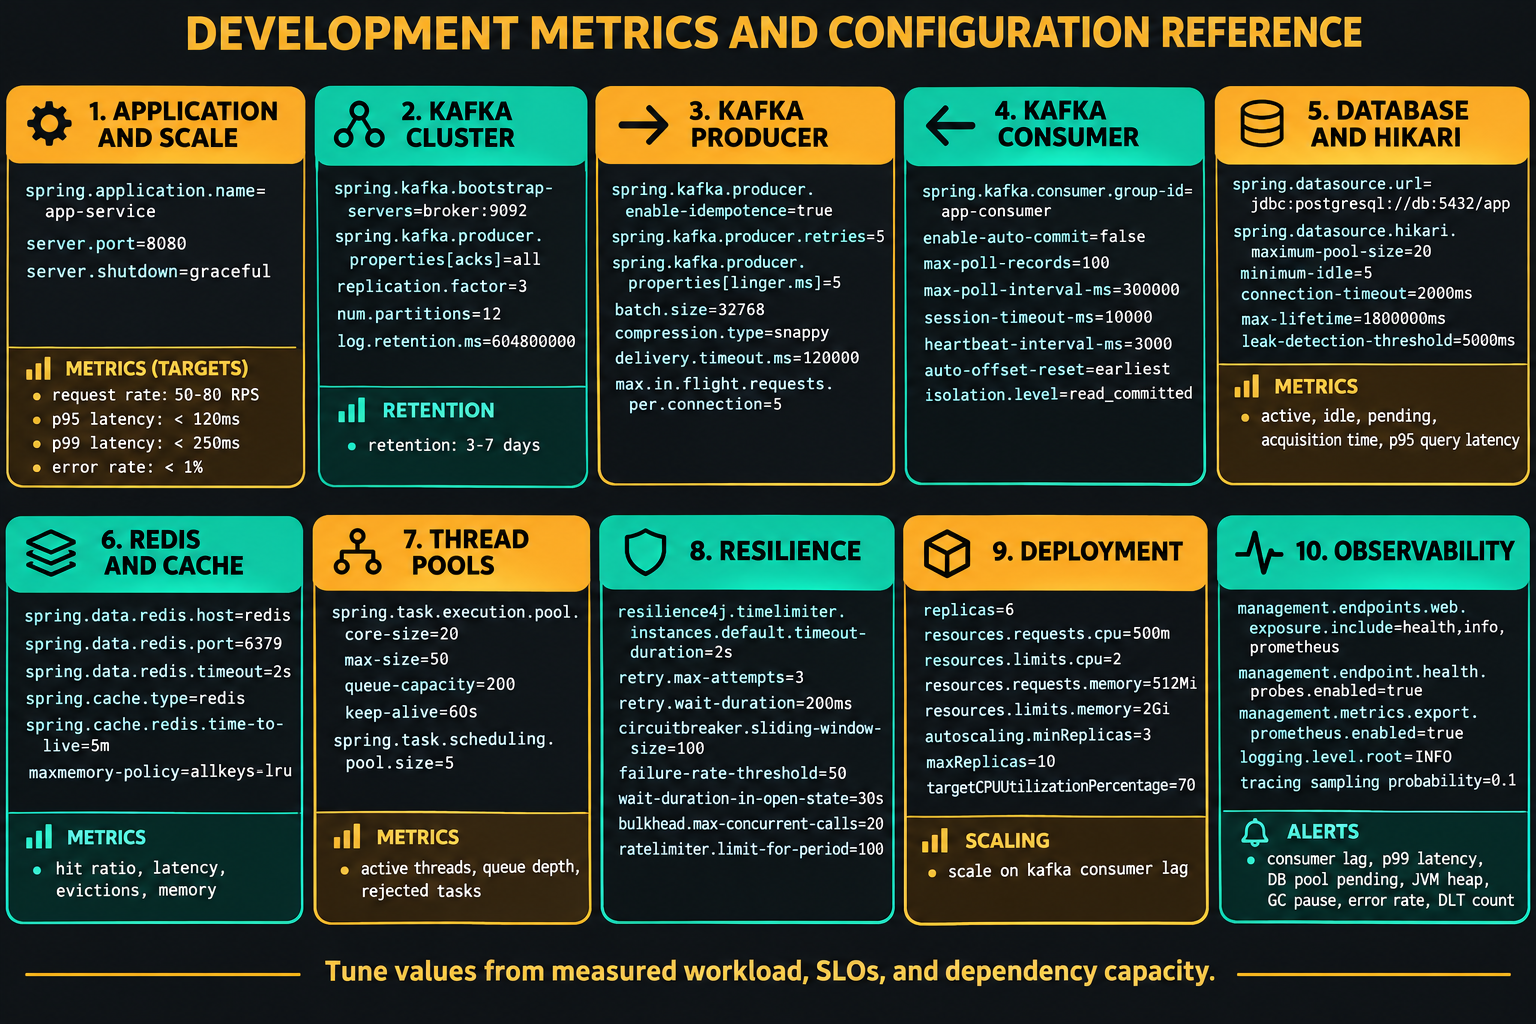
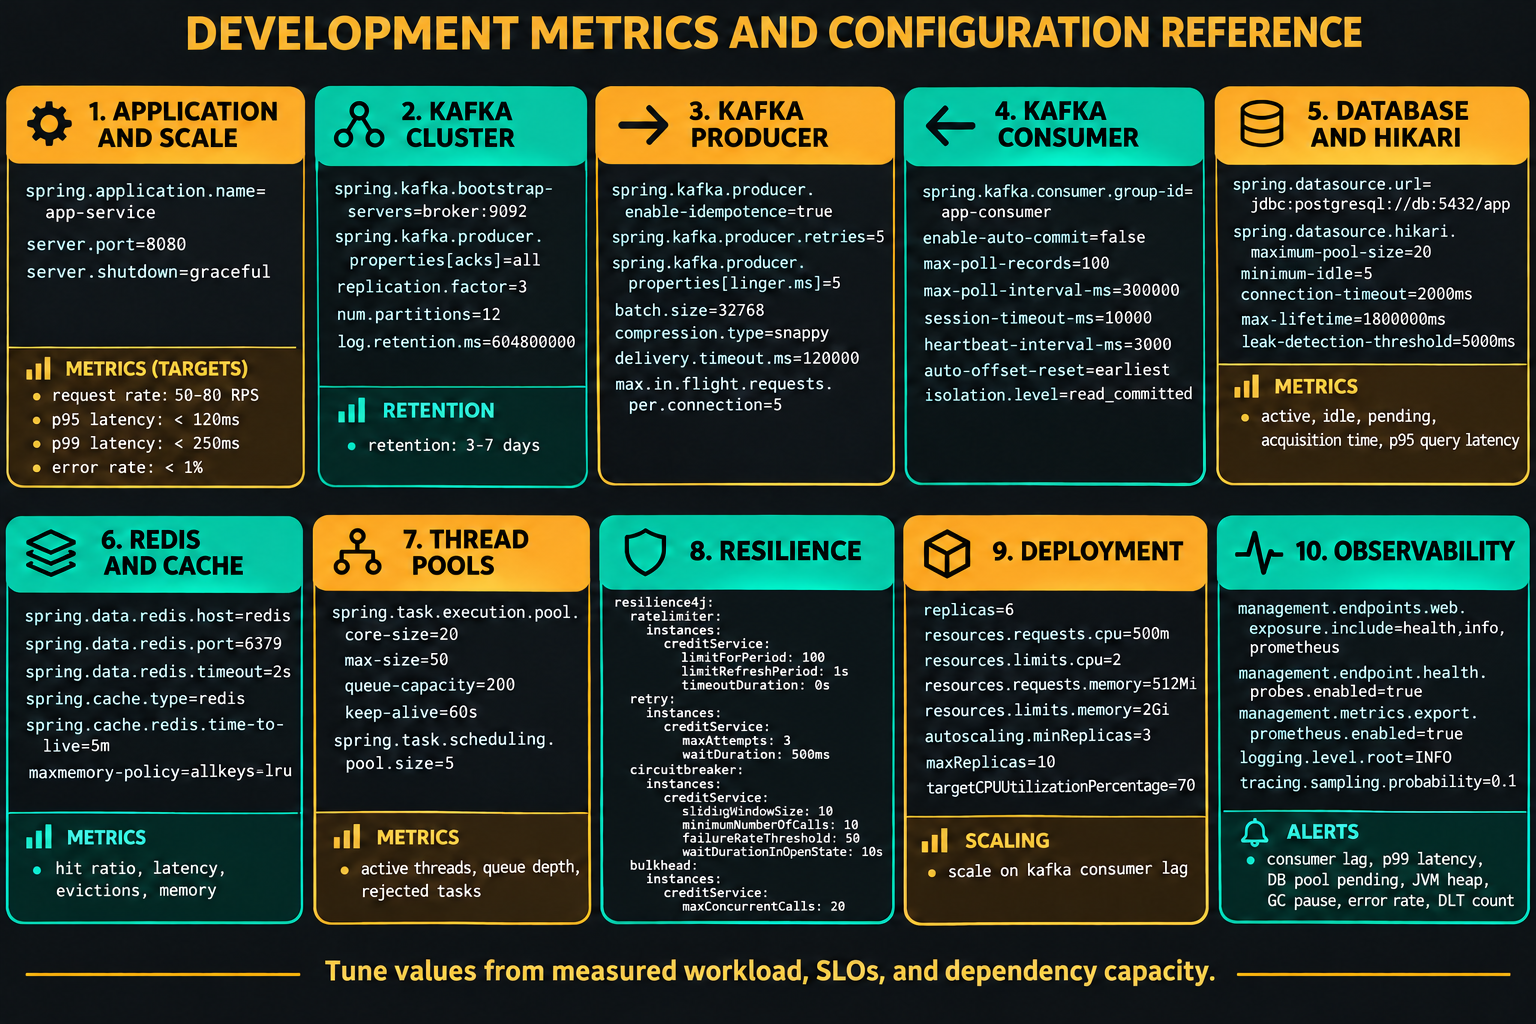
Add Jackson and Resilience4j references

diff --git a/src/features/backend/java-spring/content/java-topics.html b/src/features/backend/java-spring/content/java-topics.html
@@ -303,6 +303,31 @@
   <h3>JSON Parsing</h3>
   <p>Converting between Java objects and JSON format. Use case: web APIs, data exchange, configuration files, REST services.</p>
 
+  <h3>Jackson and Important Methods</h3>
+  <p>Jackson is the JSON library commonly used by Spring Boot's HTTP message converters. Its central type is <code>ObjectMapper</code>, which serializes Java objects to JSON and deserializes JSON into Java types. Prefer DTOs and explicit validation at API boundaries so the JSON contract stays stable.</p>
+  <div class="note-table-wrap">
+    <table>
+      <caption>Jackson APIs worth knowing</caption>
+      <thead><tr><th>Method / type</th><th>Purpose</th><th>Example</th></tr></thead>
+      <tbody>
+        <tr><td><code>ObjectMapper.readValue</code></td><td>Deserialize JSON into a class, generic type, or tree.</td><td><code>readValue(json, OrderDto.class)</code></td></tr>
+        <tr><td><code>ObjectMapper.writeValueAsString</code></td><td>Serialize an object to a JSON string.</td><td><code>writeValueAsString(order)</code></td></tr>
+        <tr><td><code>ObjectMapper.readTree</code></td><td>Parse JSON into a <code>JsonNode</code> tree when the shape is partial or dynamic.</td><td><code>readTree(json).path("status").asText()</code></td></tr>
+        <tr><td><code>ObjectMapper.convertValue</code></td><td>Convert between compatible objects or maps without an intermediate JSON string.</td><td><code>convertValue(map, OrderDto.class)</code></td></tr>
+        <tr><td><code>TypeReference&lt;T&gt;</code></td><td>Preserve generic type information at runtime.</td><td><code>readValue(json, new TypeReference&lt;List&lt;OrderDto&gt;&gt;() {})</code></td></tr>
+        <tr><td><code>JsonNode.get</code> / <code>path</code></td><td>Read a field from a tree; <code>path</code> returns a safe missing node.</td><td>Use <code>path</code> for optional fields and validate required ones.</td></tr>
+        <tr><td><code>@JsonProperty</code> / <code>@JsonAlias</code></td><td>Map a JSON name or accept legacy input names.</td><td><code>@JsonProperty("order_id")</code></td></tr>
+        <tr><td><code>@JsonIgnore</code> / <code>@JsonInclude</code></td><td>Control sensitive or empty fields in output.</td><td>Never serialize passwords or tokens.</td></tr>
+      </tbody>
+    </table>
+  </div>
+  <pre><code>ObjectMapper mapper = new ObjectMapper();
+OrderDto order = mapper.readValue(json, OrderDto.class);
+String responseJson = mapper.writeValueAsString(order);
+JsonNode root = mapper.readTree(json);
+String status = root.path("status").asText();</code></pre>
+  <p><strong>Interview point:</strong> In Spring MVC, malformed JSON or a type mismatch often surfaces as <code>HttpMessageNotReadableException</code> with a Jackson cause. Handle it centrally with <code>@RestControllerAdvice</code>, return a safe validation response, and do not expose raw parser details.</p>
+
   <h3>Common Exceptions: Java to Spring Boot</h3>
   <p>The same exception can have several causes. Read the first relevant application stack frame and the root cause before choosing a fix. Checked exceptions must be caught or declared; unchecked exceptions usually point to a broken input contract, invalid state, or programming mistake. Spring may wrap an underlying Java, JDBC, or Jackson exception.</p>
 

diff --git a/src/features/backend/java-spring/content/spring-topics.html b/src/features/backend/java-spring/content/spring-topics.html
@@ -476,6 +476,44 @@
 <h3>@LoadBalanced</h3>
 <p>Enables client-side load balancing for RestTemplate. Use case: service load balancing, microservices, fault tolerance.</p>
 
+<h3>Resilience4j: Rate Limiter, Retry, Circuit Breaker, and Bulkhead</h3>
+<p>Resilience4j protects an outbound dependency with independent policies. Apply them at the service boundary, keep retries bounded, retry only transient and idempotent operations, and provide a useful fallback or clear failure response. The configuration below gives the <code>creditService</code> dependency a rate limit, three attempts with backoff, a circuit that opens after a measured failure rate, and a concurrency cap.</p>
+<pre><code>resilience4j:
+  ratelimiter:
+    instances:
+      creditService:
+        limitForPeriod: 100
+        limitRefreshPeriod: 1s
+        timeoutDuration: 0s
+  retry:
+    instances:
+      creditService:
+        maxAttempts: 3
+        waitDuration: 500ms
+  circuitbreaker:
+    instances:
+      creditService:
+        slidingWindowSize: 10
+        minimumNumberOfCalls: 10
+        failureRateThreshold: 50
+        waitDurationInOpenState: 10s
+  bulkhead:
+    instances:
+      creditService:
+        maxConcurrentCalls: 20</code></pre>
+<div class="note-table-wrap">
+  <table>
+    <thead><tr><th>Policy</th><th>Important settings</th><th>What it prevents</th></tr></thead>
+    <tbody>
+      <tr><td><code>@RateLimiter(name = "creditService")</code></td><td>100 calls per 1 second; <code>timeoutDuration: 0s</code> rejects immediately.</td><td>Overloading the dependency or violating its quota.</td></tr>
+      <tr><td><code>@Retry(name = "creditService")</code></td><td>3 total attempts with a 500 ms wait.</td><td>Permanent failure from one transient network error.</td></tr>
+      <tr><td><code>@CircuitBreaker(name = "creditService", fallbackMethod = "creditFallback")</code></td><td>10-call window, open at 50% failures, wait 10 seconds before a probe.</td><td>Cascading failures and needless calls while a dependency is unhealthy.</td></tr>
+      <tr><td><code>@Bulkhead(name = "creditService")</code></td><td>At most 20 concurrent calls.</td><td>Thread starvation and unlimited in-flight work.</td></tr>
+    </tbody>
+  </table>
+</div>
+<p><strong>Ordering matters:</strong> choose an explicit decorator order and observe accepted, rejected, retried, timed-out, and fallback calls. A circuit breaker is not a timeout, and a retry is not a substitute for a timeout. Pair these policies with client connection/read timeouts and metrics.</p>
+
 <h2>Spring WebFlux (Reactive)</h2>
 
 <h3>Spring WebFlux</h3>
